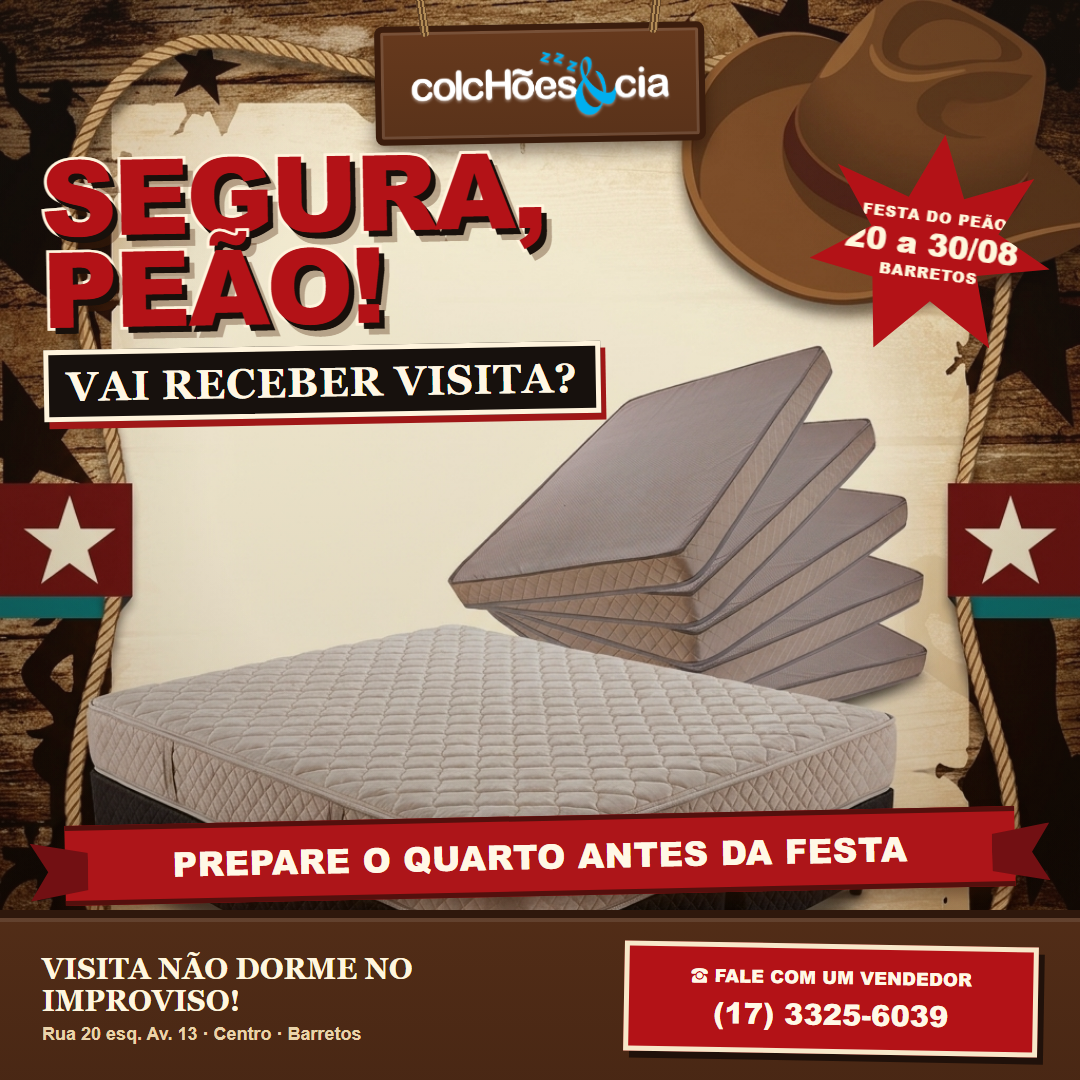
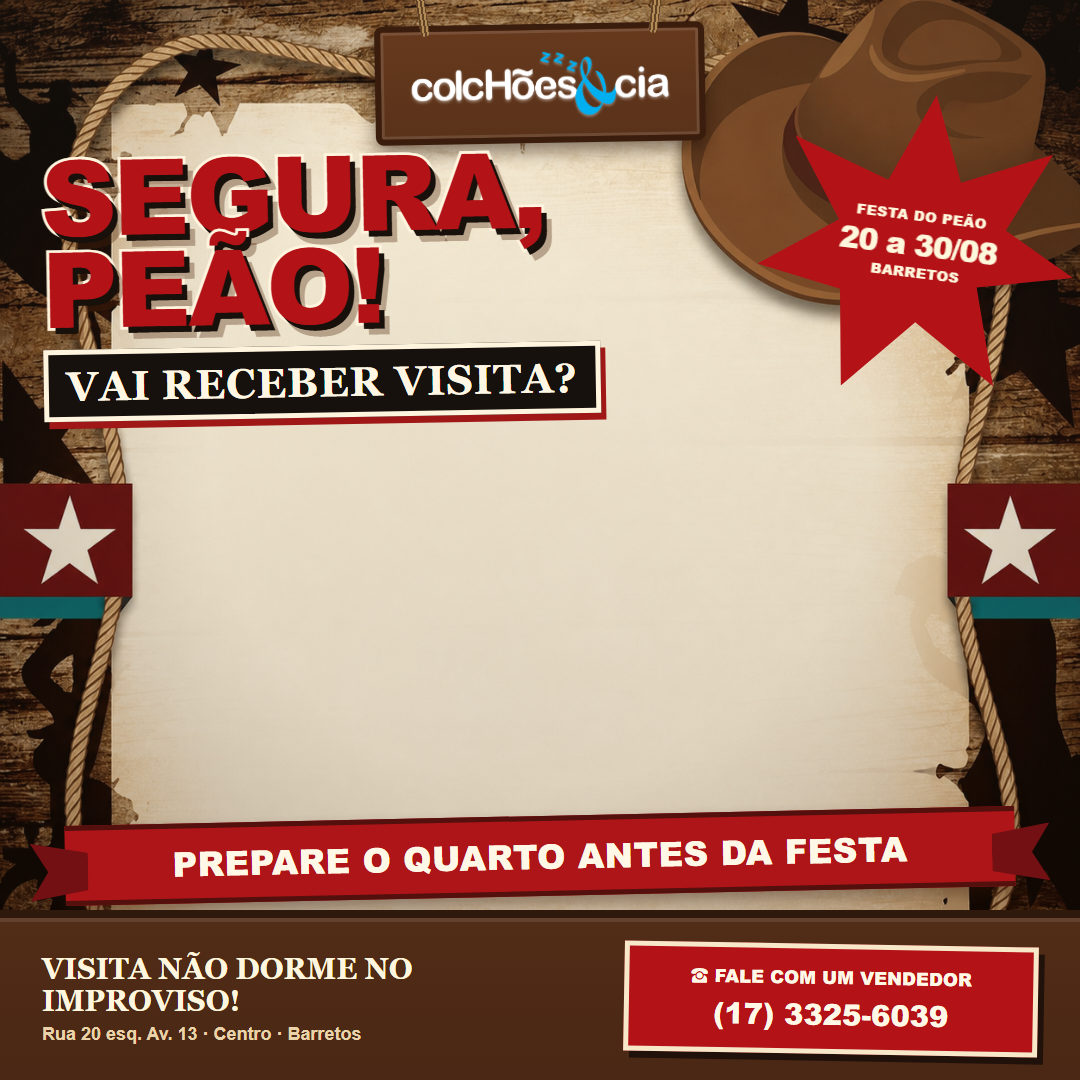
Cria layouts da Festa do Peão sem produtos

diff --git a/marketing/conteudo/festa-peao-visitas-2026-08-piloto-v2/post-piloto-v2-story.html b/marketing/conteudo/festa-peao-visitas-2026-08-piloto-v2/post-piloto-v2-story.html
@@ -5,52 +5,40 @@
 <style>
   * { margin: 0; padding: 0; box-sizing: border-box; }
 
-  body {
-    background: #20140c;
-    font-family: Arial, sans-serif;
-  }
+  body { background: #20140c; font-family: Arial, sans-serif; }
 
-  .feed {
+  .story {
     width: 1080px;
-    height: 1080px;
+    height: 1920px;
     position: relative;
     overflow: hidden;
-    background: #c7a06b;
-  }
-
-  .background {
-    position: absolute;
-    inset: 0;
-    background: url("bg-piloto-v2-produtos-limpo.png") center / cover no-repeat;
+    background: #c7a06b url("bg-piloto-v2-story-sem-produtos.png") center / cover no-repeat;
   }
 
   .vignette {
     position: absolute;
     inset: 0;
     background:
-      radial-gradient(circle at 50% 42%, transparent 40%, rgba(43, 20, 6, .28) 100%),
-      linear-gradient(to bottom, rgba(255, 239, 202, .05), rgba(48, 20, 5, .18));
+      radial-gradient(circle at 50% 47%, transparent 42%, rgba(43, 20, 6, .24) 100%),
+      linear-gradient(to bottom, rgba(255, 239, 202, .04), rgba(48, 20, 5, .16));
   }
 
   .logo-board {
     position: absolute;
-    top: 24px;
+    top: 34px;
     left: 50%;
-    width: 330px;
-    min-height: 108px;
+    width: 390px;
+    min-height: 122px;
     transform: translateX(-50%) rotate(-1deg);
-    padding: 19px 28px;
+    padding: 21px 31px;
     display: flex;
     align-items: center;
     justify-content: center;
-    background:
-      linear-gradient(rgba(74, 37, 15, .12), rgba(15, 7, 3, .18)),
-      #6a3c1f;
+    background: linear-gradient(rgba(74, 37, 15, .12), rgba(15, 7, 3, .18)), #6a3c1f;
     border: 6px solid #3b1d0d;
     border-radius: 8px;
-    box-shadow:
-      inset 0 0 0 3px rgba(255,255,255,.12),
-      0 8px 18px rgba(31,13,4,.52);
+    box-shadow: inset 0 0 0 3px rgba(255,255,255,.12), 0 8px 18px rgba(31,13,4,.52);
+    z-index: 3;
   }
 
   .logo-board::before,
@@ -64,20 +52,15 @@
     background: repeating-linear-gradient(90deg, #624326 0 2px, #b18a55 2px 4px);
   }
 
-  .logo-board::before { left: 38px; transform: rotate(-8deg); }
-  .logo-board::after { right: 38px; transform: rotate(8deg); }
-
-  .logo-board img {
-    width: 100%;
-    display: block;
-    filter: drop-shadow(0 2px 1px rgba(255,255,255,.32));
-  }
+  .logo-board::before { left: 42px; transform: rotate(-8deg); }
+  .logo-board::after { right: 42px; transform: rotate(8deg); }
+  .logo-board img { width: 100%; display: block; filter: drop-shadow(0 2px 1px rgba(255,255,255,.32)); }
 
   .headline {
     position: absolute;
-    top: 143px;
-    left: 42px;
-    width: 730px;
+    top: 246px;
+    left: 48px;
+    width: 690px;
     transform: rotate(-1deg);
     z-index: 4;
   }
@@ -85,39 +68,37 @@
   .headline h1 {
     color: #b31217;
     font-family: "Rockwell Extra Bold", "Arial Black", Impact, sans-serif;
-    font-size: 105px;
+    font-size: 118px;
     font-weight: 900;
     line-height: .88;
     letter-spacing: -3px;
     text-transform: uppercase;
     -webkit-text-stroke: 5px #fff4dd;
     paint-order: stroke fill;
-    text-shadow:
-      5px 6px 0 #18100b,
-      10px 12px 0 rgba(75, 35, 10, .34);
+    text-shadow: 5px 6px 0 #18100b, 10px 12px 0 rgba(75, 35, 10, .34);
   }
 
   .headline .question {
     display: inline-block;
-    margin-top: 16px;
-    padding: 8px 18px 7px;
+    margin-top: 18px;
+    padding: 10px 18px 8px;
     color: #fff7e4;
     background: #17110d;
     border: 5px solid #fff4dd;
     box-shadow: 5px 7px 0 #9f1717;
     font-family: "Rockwell Extra Bold", Georgia, serif;
-    font-size: 41px;
+    font-size: 42px;
     font-weight: 900;
-    letter-spacing: 1px;
+    letter-spacing: .5px;
     text-transform: uppercase;
   }
 
   .date-star {
     position: absolute;
-    top: 94px;
+    top: 210px;
     right: 4px;
-    width: 315px;
-    height: 300px;
+    width: 330px;
+    height: 310px;
     display: flex;
     flex-direction: column;
     align-items: center;
@@ -132,20 +113,20 @@
   }
 
   .date-star .small {
-    width: 170px;
+    width: 178px;
     font-family: "Arial Black", Arial, sans-serif;
-    font-size: 14px;
+    font-size: 15px;
     letter-spacing: .5px;
     line-height: 1.1;
-    white-space: nowrap;
     text-transform: uppercase;
+    white-space: nowrap;
   }
 
   .date-star .date {
-    width: 210px;
-    margin: 6px 0;
+    width: 220px;
+    margin: 7px 0;
     font-family: "Rockwell Extra Bold", "Arial Black", serif;
-    font-size: 30px;
+    font-size: 32px;
     font-weight: 900;
     line-height: 1;
     letter-spacing: -1px;
@@ -155,17 +136,17 @@
   .ribbon {
     position: absolute;
     left: 50%;
-    bottom: 184px;
+    bottom: 286px;
     width: 950px;
     transform: translateX(-50%) rotate(-1.2deg);
-    padding: 17px 92px 16px;
+    padding: 18px 84px 17px;
     color: #fff8e6;
     background: #ad1519;
     border-top: 5px solid #53100d;
     border-bottom: 5px solid #53100d;
     box-shadow: 0 8px 14px rgba(49,20,6,.38);
     font-family: "Rockwell Extra Bold", "Arial Black", serif;
-    font-size: 34px;
+    font-size: 37px;
     font-weight: 900;
     line-height: 1.08;
     letter-spacing: .5px;
@@ -185,31 +166,22 @@
     z-index: -1;
   }
 
-  .ribbon::before {
-    left: -35px;
-    clip-path: polygon(0 0, 100% 18%, 100% 82%, 0 100%, 31% 50%);
-  }
-
-  .ribbon::after {
-    right: -35px;
-    clip-path: polygon(100% 0, 0 18%, 0 82%, 100% 100%, 69% 50%);
-  }
+  .ribbon::before { left: -35px; clip-path: polygon(0 0, 100% 18%, 100% 82%, 0 100%, 31% 50%); }
+  .ribbon::after { right: -35px; clip-path: polygon(100% 0, 0 18%, 0 82%, 100% 100%, 69% 50%); }
 
   .footer {
     position: absolute;
     left: 0;
     right: 0;
     bottom: 0;
-    height: 170px;
-    padding: 23px 42px;
+    height: 266px;
+    padding: 34px 44px;
     display: grid;
-    grid-template-columns: 1.15fr .85fr;
+    grid-template-columns: 1.12fr .88fr;
     gap: 22px;
     align-items: center;
     color: #fff6df;
-    background:
-      linear-gradient(rgba(34,15,7,.10), rgba(34,15,7,.26)),
-      #573019;
+    background: linear-gradient(rgba(34,15,7,.10), rgba(34,15,7,.26)), #573019;
     border-top: 8px solid #2f180c;
     box-shadow: inset 0 4px 0 rgba(255,255,255,.10);
     z-index: 8;
@@ -217,21 +189,16 @@
 
   .footer-copy .main {
     font-family: "Rockwell Extra Bold", Georgia, serif;
-    font-size: 29px;
+    font-size: 34px;
     font-weight: 900;
     line-height: 1.08;
     text-transform: uppercase;
   }
 
-  .footer-copy .sub {
-    margin-top: 8px;
-    color: #ead3aa;
-    font-size: 18px;
-    font-weight: 700;
-  }
+  .footer-copy .sub { margin-top: 11px; color: #ead3aa; font-size: 20px; font-weight: 700; }
 
   .phone-box {
-    padding: 15px 18px;
+    padding: 19px 18px;
     color: #fff8e6;
     background: #b31217;
     border: 5px solid #f7e8ca;
@@ -240,25 +207,12 @@
     transform: rotate(1deg);
   }
 
-  .phone-box .call {
-    display: block;
-    margin-bottom: 3px;
-    font-family: "Arial Black", Arial, sans-serif;
-    font-size: 18px;
-    text-transform: uppercase;
-  }
-
-  .phone-box .number {
-    display: block;
-    font-family: "Arial Black", Arial, sans-serif;
-    font-size: 29px;
-    font-weight: 900;
-  }
+  .phone-box .call { display: block; margin-bottom: 5px; font-family: "Arial Black", Arial, sans-serif; font-size: 19px; text-transform: uppercase; }
+  .phone-box .number { display: block; font-family: "Arial Black", Arial, sans-serif; font-size: 30px; font-weight: 900; }
 </style>
 </head>
 <body>
-  <div class="feed">
-    <div class="background"></div>
+  <div class="story">
     <div class="vignette"></div>
 
     <div class="logo-board">

diff --git a/marketing/conteudo/festa-peao-visitas-2026-08-piloto-v2/render-story.js b/marketing/conteudo/festa-peao-visitas-2026-08-piloto-v2/render-story.js
@@ -1,0 +1,25 @@
+const { chromium } = require("playwright");
+const path = require("path");
+
+(async () => {
+  const browser = await chromium.launch({
+    executablePath: "C:\\Program Files\\Google\\Chrome\\Application\\chrome.exe",
+  });
+  const page = await browser.newPage({ viewport: { width: 1080, height: 1920 } });
+  const htmlPath = path.resolve(__dirname, "post-piloto-v2-story.html");
+
+  await page.goto(`file://${htmlPath}`, { waitUntil: "networkidle" });
+  await page.waitForTimeout(1200);
+
+  const story = await page.$(".story");
+  await story.screenshot({
+    path: path.join(__dirname, "post-piloto-v2-story.png"),
+    type: "png",
+  });
+
+  await browser.close();
+  console.log("✓ post-piloto-v2-story.png");
+})().catch((error) => {
+  console.error("Erro:", error.message);
+  process.exit(1);
+});
